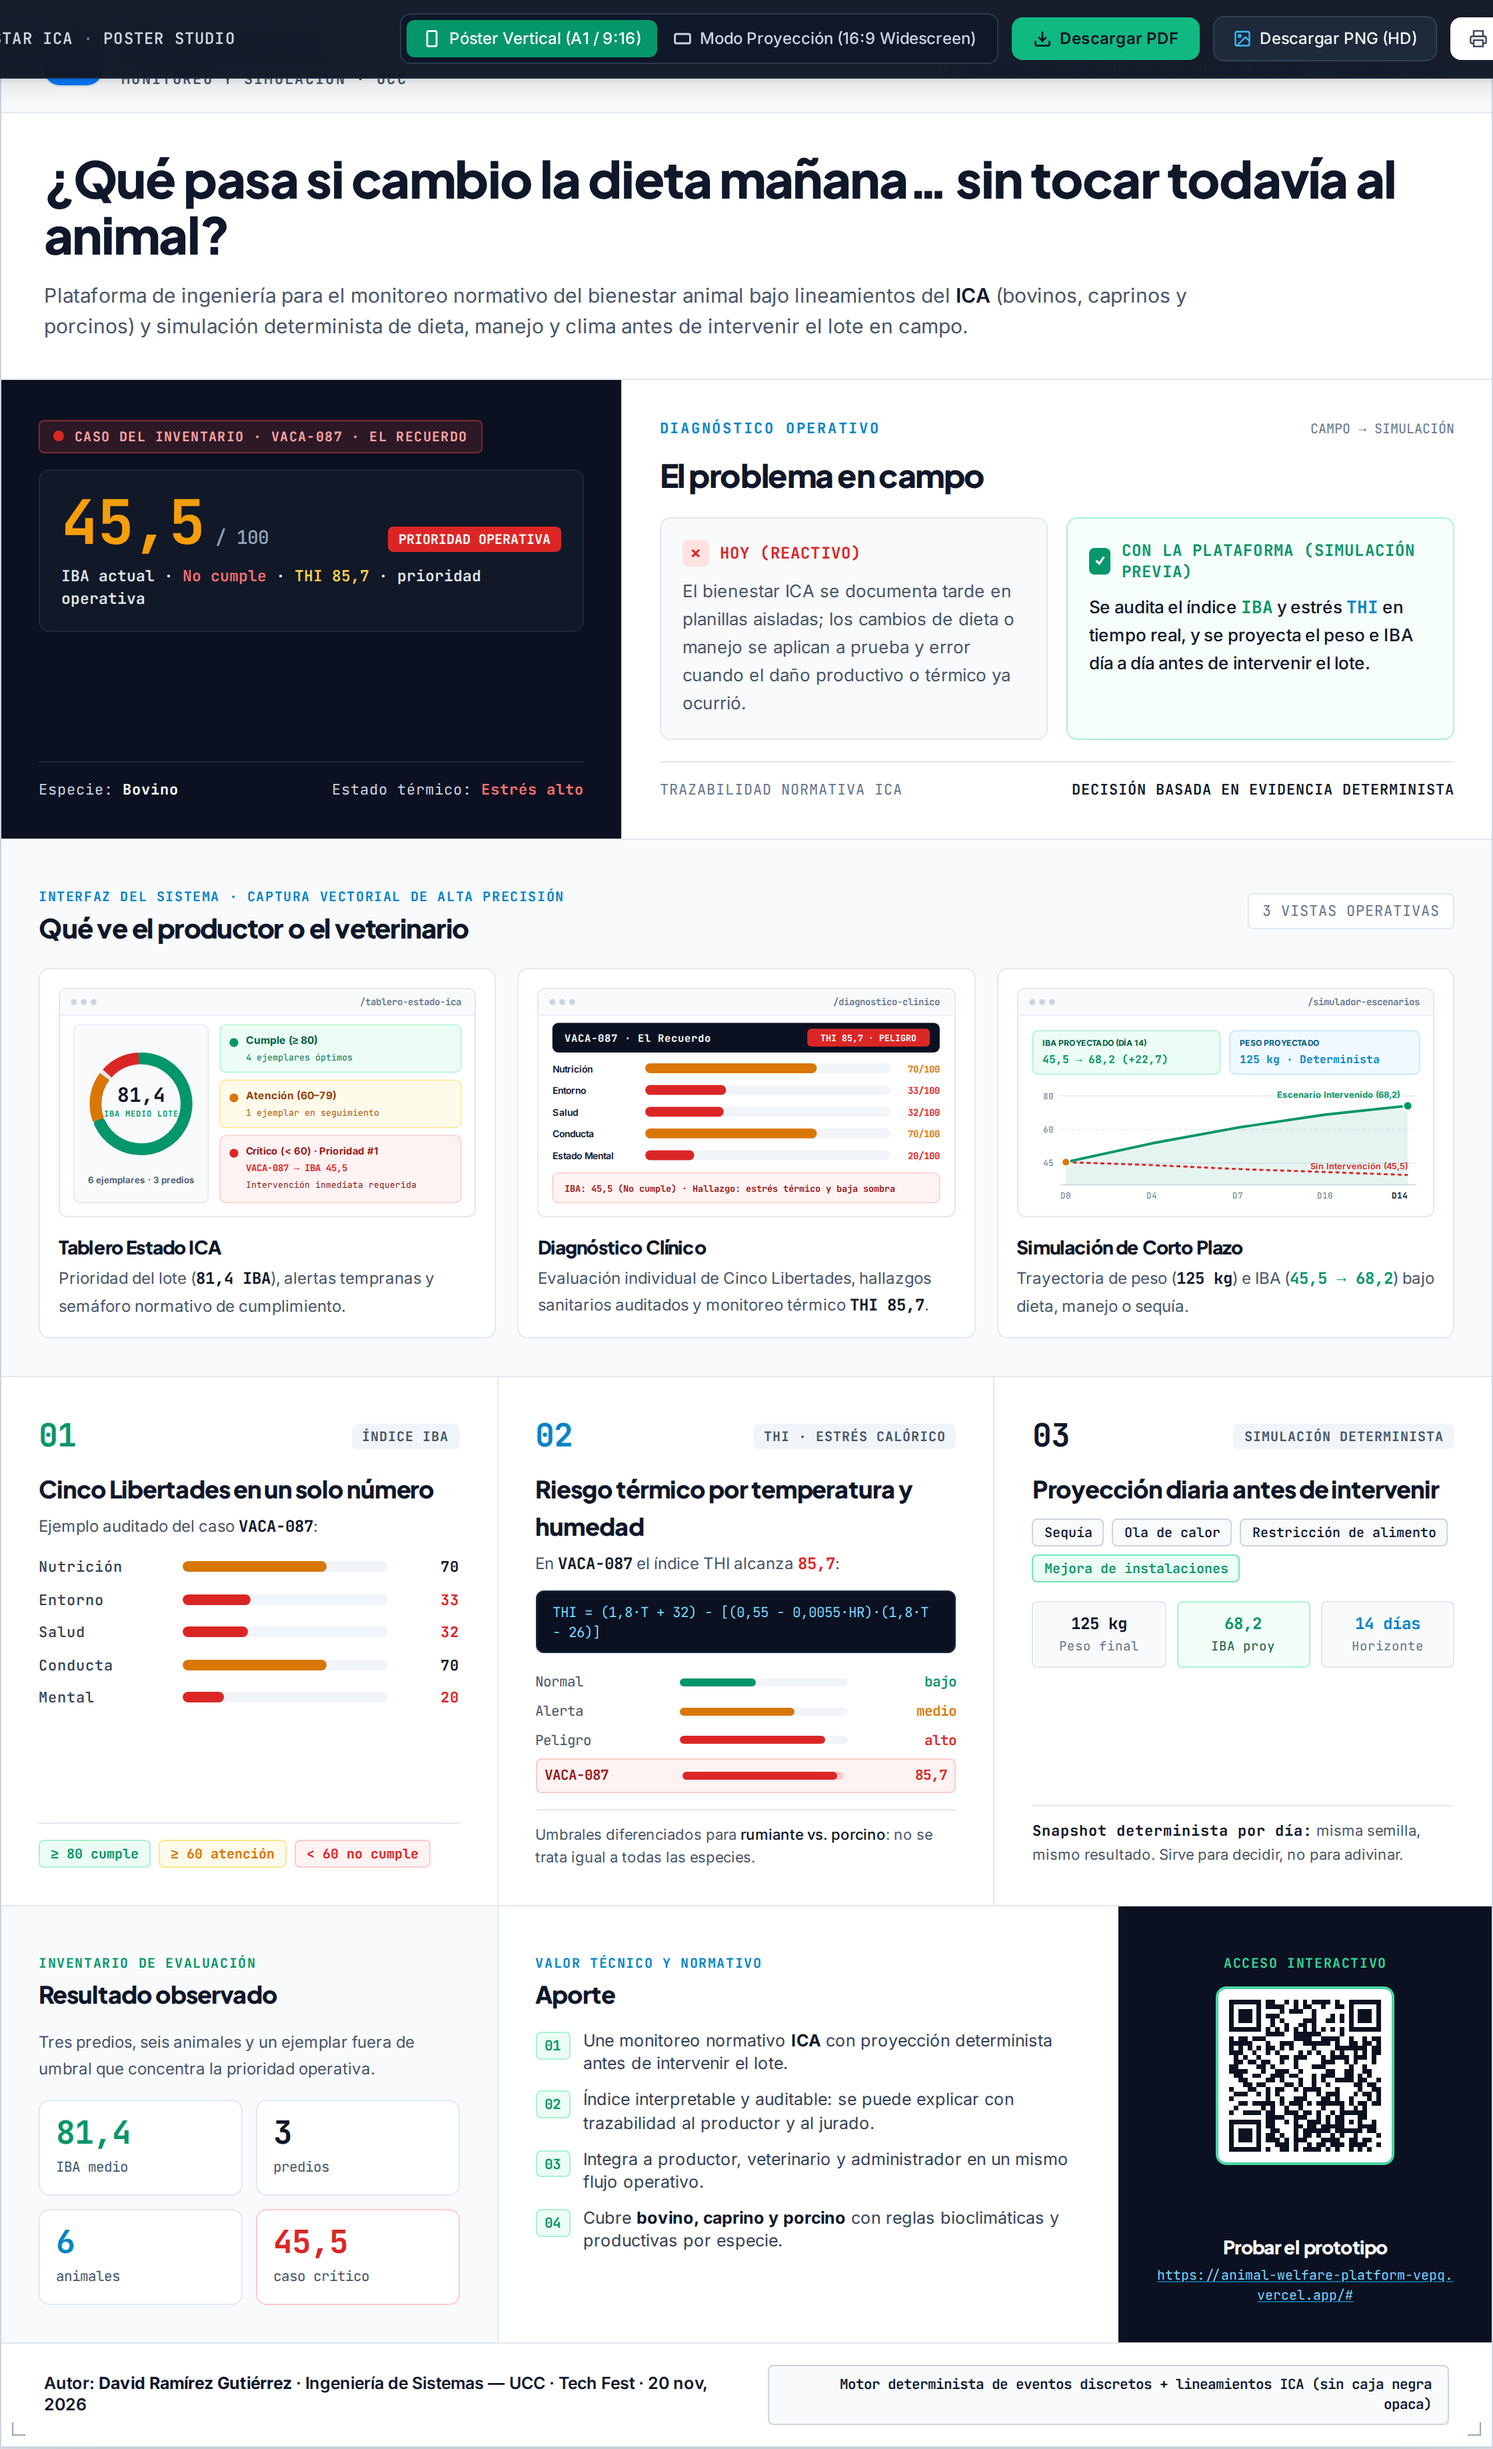
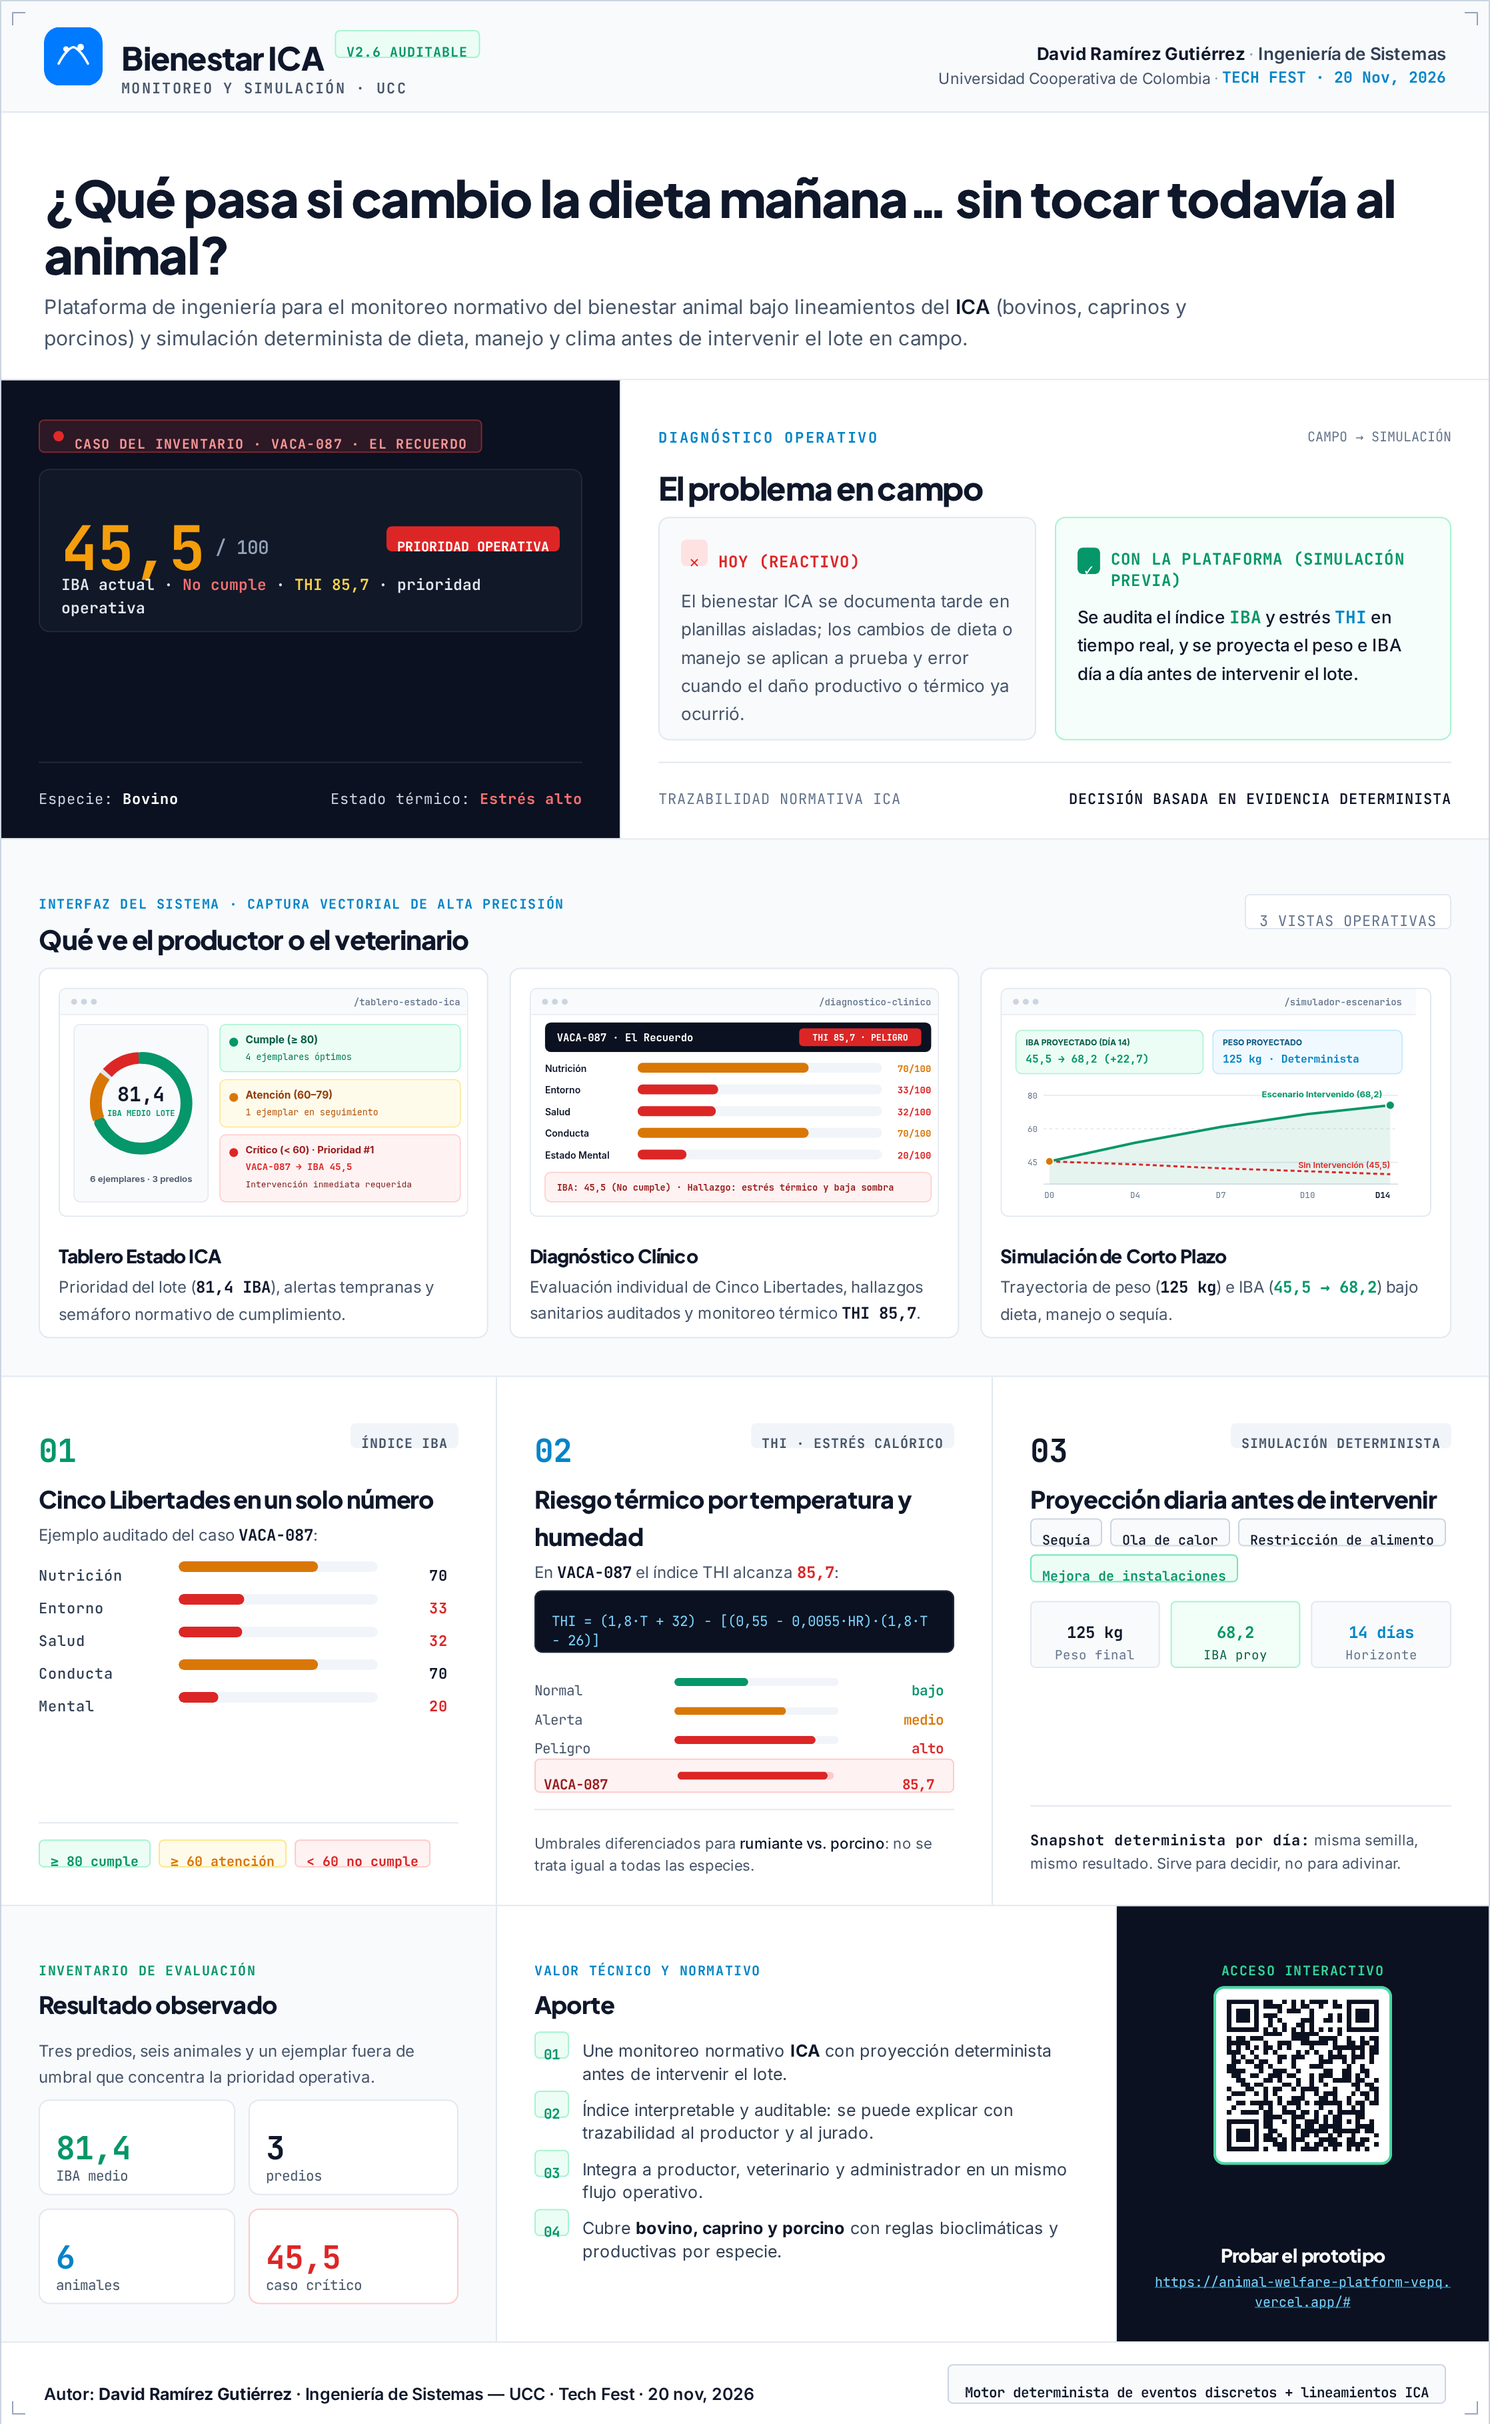
Fix poster export alignment and drop opaque-box wording
Remove the footer aside about opaque black boxes and harden html2canvas capture with gap polyfill on the export clone only.

diff --git a/docs/poster/poster-bienestar-ica.html b/docs/poster/poster-bienestar-ica.html
@@ -978,7 +978,7 @@
 
         <div class="sm:text-right border-t sm:border-t-0 pt-2 sm:pt-0 border-[#E2E8F0]">
           <span class="inline-block font-mono-tech text-[10.5px] font-semibold text-[#0F172A] bg-[#F8FAFC] border border-[#CBD5E1] px-3 py-1.5 rounded">
-            Motor determinista de eventos discretos + lineamientos ICA (sin caja negra opaca)
+            Motor determinista de eventos discretos + lineamientos ICA
           </span>
         </div>
       </footer>
@@ -1065,18 +1065,94 @@
     }
 
     /**
-     * Captura #poster-canvas asegurando dimensiones exactas de todos los SVG inline
-     * y carga completa de fuentes tipográficas.
+     * html2canvas 1.4.x no aplica bien gap en flex/grid: eso desalinea el export.
+     * Solo en el clon (no toca el DOM visible) convertimos gap a márgenes equivalentes.
+     */
+    function polyfillGapOnClone(liveRoot, clonedRoot) {
+      const liveNodes = [liveRoot, ...liveRoot.querySelectorAll('*')];
+      const clonedNodes = [clonedRoot, ...clonedRoot.querySelectorAll('*')];
+
+      liveNodes.forEach((liveEl, index) => {
+        const clonedEl = clonedNodes[index];
+        if (!clonedEl || !liveEl || liveEl.nodeType !== 1) return;
+
+        const style = window.getComputedStyle(liveEl);
+        const display = style.display;
+        const isFlex = display === 'flex' || display === 'inline-flex';
+        const isGrid = display === 'grid' || display === 'inline-grid';
+        if (!isFlex && !isGrid) return;
+
+        const rowGap = Number.parseFloat(style.rowGap) || 0;
+        const columnGap = Number.parseFloat(style.columnGap) || 0;
+        if (rowGap <= 0 && columnGap <= 0) return;
+
+        const children = Array.from(clonedEl.children).filter((node) => node.nodeType === 1);
+        if (!children.length) return;
+
+        if (isFlex) {
+          // En wrap el polyfill por márgenes distorsiona filas nuevas; se deja el gap original.
+          const wrap = style.flexWrap || 'nowrap';
+          if (wrap !== 'nowrap') return;
+
+          clonedEl.style.gap = '0px';
+          clonedEl.style.rowGap = '0px';
+          clonedEl.style.columnGap = '0px';
+
+          const direction = style.flexDirection || 'row';
+          children.forEach((child, childIndex) => {
+            if (childIndex === 0) return;
+            if (direction.startsWith('column')) {
+              child.style.marginTop = `${(Number.parseFloat(child.style.marginTop) || 0) + rowGap}px`;
+            } else {
+              child.style.marginLeft = `${(Number.parseFloat(child.style.marginLeft) || 0) + columnGap}px`;
+            }
+          });
+          return;
+        }
+
+        clonedEl.style.gap = '0px';
+        clonedEl.style.rowGap = '0px';
+        clonedEl.style.columnGap = '0px';
+
+        // Grid simple: margen inferior/derecho excepto última fila/columna aproximada
+        const templateCols = (style.gridTemplateColumns || '').trim();
+        const columns = Math.max(1, templateCols ? templateCols.split(/\s+/).length : children.length);
+        children.forEach((child, childIndex) => {
+          const col = childIndex % columns;
+          const row = Math.floor(childIndex / columns);
+          const lastCol = columns - 1;
+          const lastRow = Math.floor((children.length - 1) / columns);
+          if (col < lastCol && columnGap > 0) {
+            child.style.marginRight = `${(Number.parseFloat(child.style.marginRight) || 0) + columnGap}px`;
+          }
+          if (row < lastRow && rowGap > 0) {
+            child.style.marginBottom = `${(Number.parseFloat(child.style.marginBottom) || 0) + rowGap}px`;
+          }
+        });
+      });
+    }
+
+    /**
+     * Captura #poster-canvas con fuentes listas, viewport congelado y polyfill de gap
+     * solo dentro del clon de exportación.
      */
     async function capturePosterCanvas(scaleFactor) {
       const posterElement = document.getElementById('poster-canvas');
       if (!posterElement) throw new Error('Contenedor #poster-canvas no encontrado');
 
+      window.scrollTo(0, 0);
+      posterElement.scrollIntoView({ block: 'start' });
+
       if (document.fonts && document.fonts.ready) {
         await document.fonts.ready;
       }
+      await new Promise((resolve) => requestAnimationFrame(() => requestAnimationFrame(resolve)));
+      await new Promise((resolve) => setTimeout(resolve, 80));
 
-      // Fijar dimensiones explícitas en los SVG antes de clonar para garantizar fidelidad 1:1 en html2canvas
+      const posterRect = posterElement.getBoundingClientRect();
+      const captureWidth = Math.ceil(posterElement.scrollWidth || posterRect.width);
+      const captureHeight = Math.ceil(posterElement.scrollHeight || posterRect.height);
+
       const originalSvgs = Array.from(posterElement.querySelectorAll('svg'));
       const computedSizes = originalSvgs.map((svg) => {
         const rect = svg.getBoundingClientRect();
@@ -1089,20 +1165,49 @@
         allowTaint: false,
         backgroundColor: '#FFFFFF',
         logging: false,
+        imageTimeout: 15000,
+        removeContainer: true,
+        foreignObjectRendering: false,
+        scrollX: 0,
+        scrollY: 0,
+        x: 0,
+        y: 0,
+        width: captureWidth,
+        height: captureHeight,
+        windowWidth: Math.max(captureWidth, Math.ceil(window.innerWidth)),
+        windowHeight: Math.max(captureHeight, Math.ceil(window.innerHeight)),
         ignoreElements: (element) => element.classList && element.classList.contains('no-export'),
-        onclone: (clonedDoc) => {
-          const clonedPoster = clonedDoc.getElementById('poster-canvas');
-          if (clonedPoster) {
-            clonedPoster.style.boxShadow = 'none';
-            clonedPoster.style.margin = '0';
-            const clonedSvgs = clonedPoster.querySelectorAll('svg');
-            clonedSvgs.forEach((svg, idx) => {
-              if (computedSizes[idx] && computedSizes[idx].width > 0) {
-                svg.setAttribute('width', String(computedSizes[idx].width));
-                svg.setAttribute('height', String(computedSizes[idx].height));
-              }
-            });
-          }
+        onclone: (clonedDoc, clonedElement) => {
+          const clonedPoster = clonedElement || clonedDoc.getElementById('poster-canvas');
+          if (!clonedPoster) return;
+
+          clonedPoster.style.boxShadow = 'none';
+          clonedPoster.style.margin = '0';
+          clonedPoster.style.width = `${captureWidth}px`;
+          clonedPoster.style.maxWidth = `${captureWidth}px`;
+          clonedPoster.style.height = 'auto';
+
+          const lock = clonedDoc.createElement('style');
+          lock.textContent = `
+            .no-export { display: none !important; }
+            #poster-canvas, #poster-canvas * {
+              -webkit-print-color-adjust: exact !important;
+              print-color-adjust: exact !important;
+            }
+          `;
+          clonedDoc.head.appendChild(lock);
+
+          const clonedSvgs = clonedPoster.querySelectorAll('svg');
+          clonedSvgs.forEach((svg, idx) => {
+            if (computedSizes[idx] && computedSizes[idx].width > 0) {
+              svg.setAttribute('width', String(computedSizes[idx].width));
+              svg.setAttribute('height', String(computedSizes[idx].height));
+              svg.style.width = `${computedSizes[idx].width}px`;
+              svg.style.height = `${computedSizes[idx].height}px`;
+            }
+          });
+
+          polyfillGapOnClone(posterElement, clonedPoster);
         }
       });
     }
